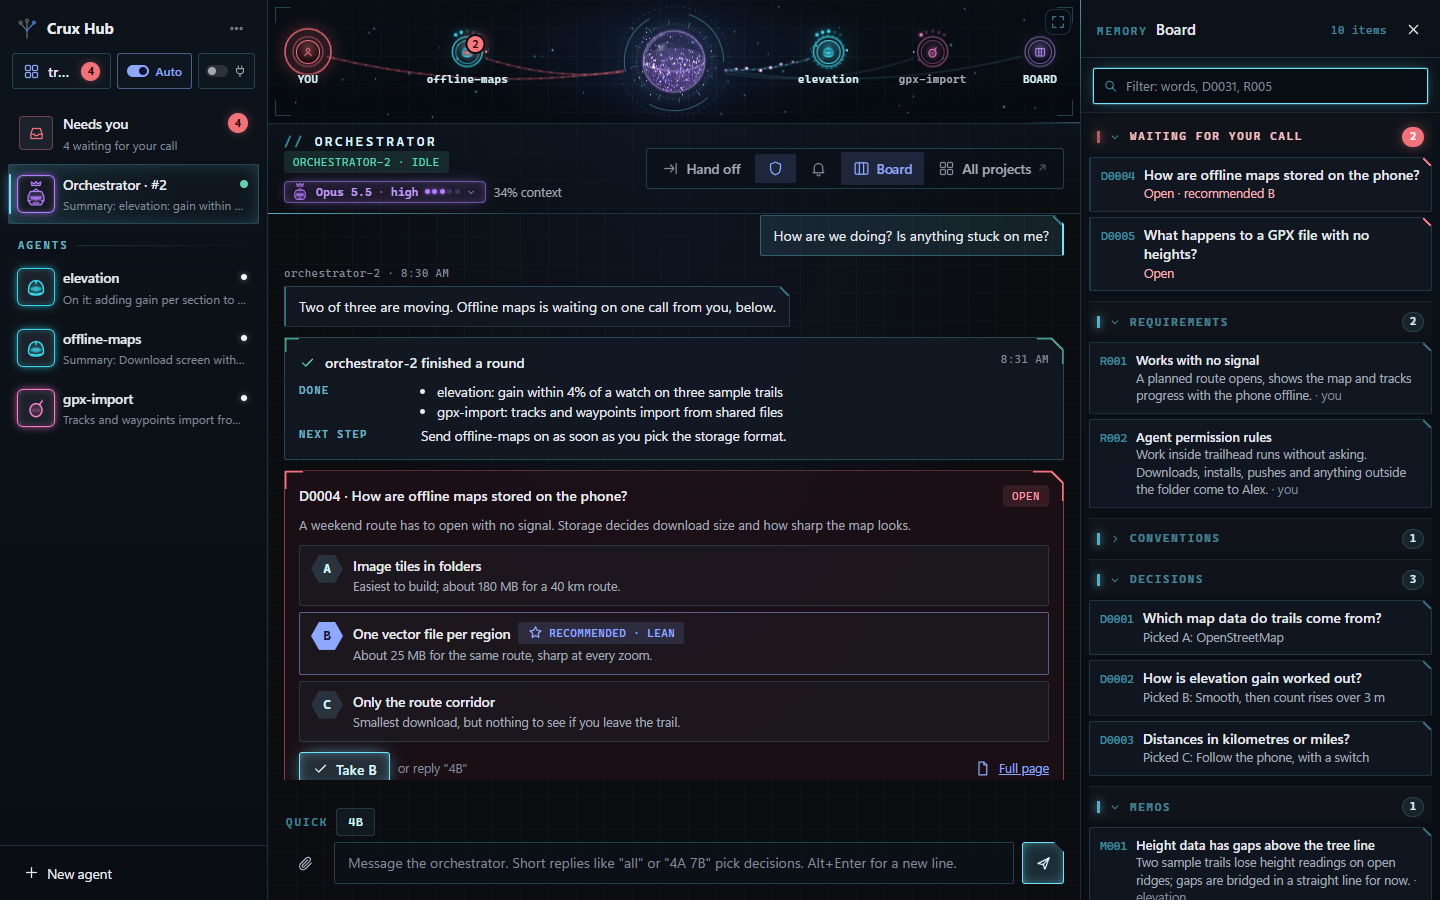
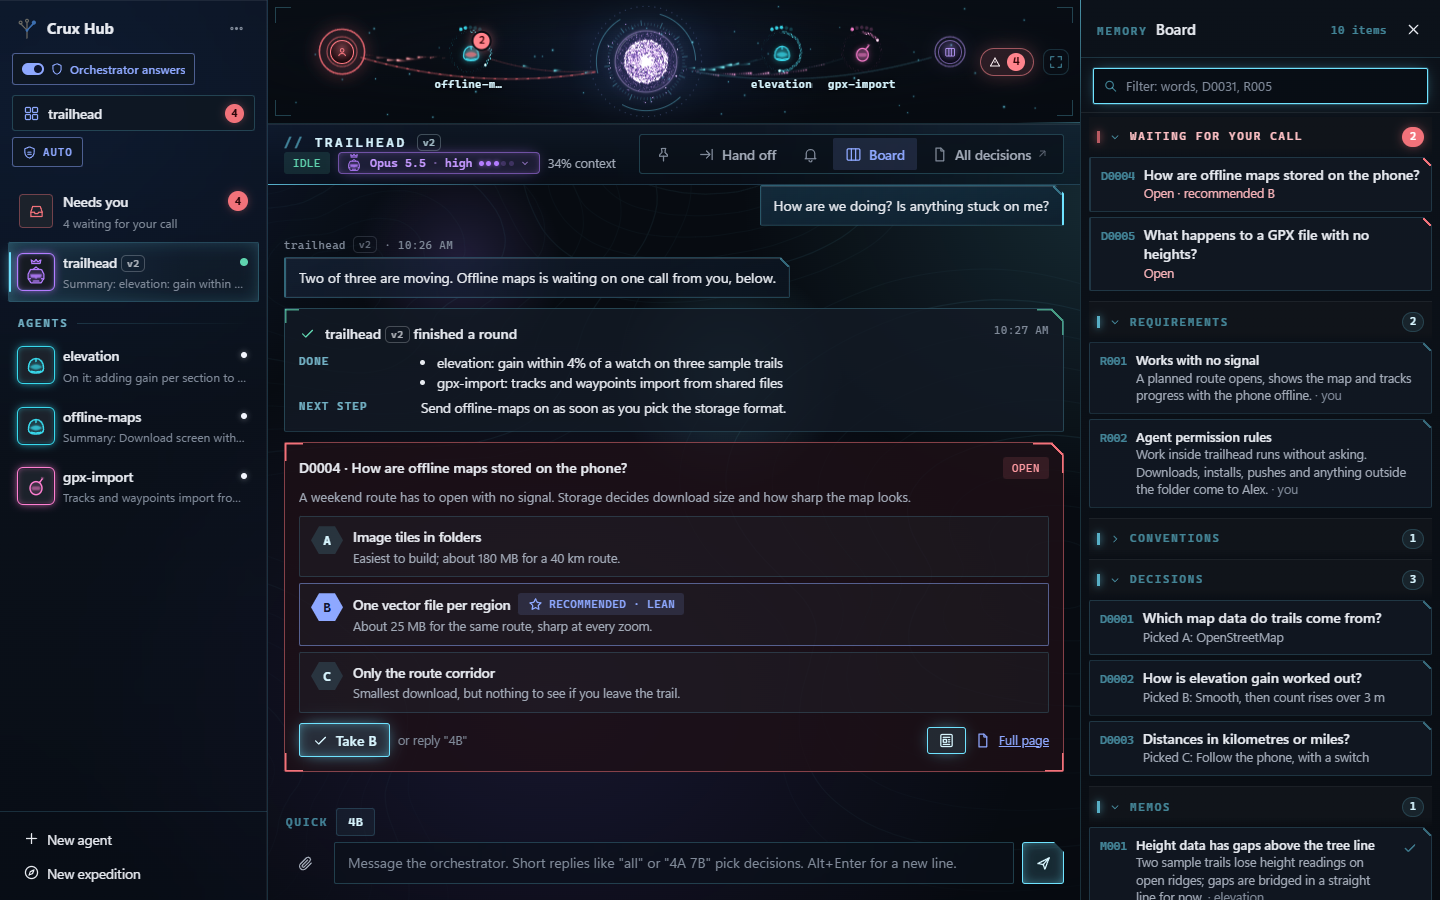
Public page: re-shoot the Hub pictures for hub 0.33 (swarm core, satellites, three-zone top bar), new share card, neutral crux-all path
Staging scripts: overlay shows two workers working, proxy asks for uncompressed state, expedition and phone-list shots fixed, crux-all.mjs added. Map copy and crop match the new look.

diff --git a/site/index.html b/site/index.html
@@ -482,11 +482,11 @@
       <div class="in">
         <div class="split even">
           <div class="prose">
-            <p>A strip along the top shows the orchestrator as a glass sphere and each worker as a station. Click it and it opens to fill the screen.</p>
+            <p>A strip along the top shows the orchestrator as a swarm of light and each worker as a small robot circling it. Click it and it opens to fill the screen.</p>
             <ul class="dots">
-              <li>The liquid level in the sphere is how much of its memory the orchestrator has used.</li>
-              <li>Streams of light run to the workers that are busy.</li>
-              <li>A station turns red when that agent waits on you.</li>
+              <li>The size of the lit core is how much of its memory the orchestrator has used, and it turns gold near a handoff.</li>
+              <li>Streams of light run to the workers that are busy, and each worker's ring shows its own memory.</li>
+              <li>A worker turns red when that agent waits on you. Point at one to see what it is doing.</li>
             </ul>
             <ul class="legend">
               <li class="red"><i></i><span><b>Red</b> is your call, and nothing else</span></li>
@@ -494,10 +494,10 @@
               <li class="cyan"><i></i><span><b>Cyan</b> is at work</span></li>
               <li class="green"><i></i><span><b>Green</b> is done</span></li>
             </ul>
-            <p class="note">The sphere at the top of this page is the same drawing code, running live.</p>
+            <p class="note">The sphere at the top of this page is a live drawing in the same style.</p>
           </div>
           <figure class="plate shot">
-            <a class="zoom crop" href="img/hub-map.png" style="--x:270;--y:60;--w:1170;--h:830;--px:540;--py:250;--pw:560;--ph:460"><img src="img/hub-map.png" width="1440" height="900" loading="lazy" alt="The live map opened to full size: the orchestrator as a glass sphere in the centre with worker stations around it"></a>
+            <a class="zoom crop" href="img/hub-map.png" style="--x:270;--y:60;--w:1170;--h:830;--px:400;--py:230;--pw:600;--ph:480"><img src="img/hub-map.png" width="1440" height="900" loading="lazy" alt="The live map opened to full size: the orchestrator as a dense swarm of light in the centre, with the workers as small robots circling it and one marked as waiting on you"></a>
             <figcaption><span>Fig. 12</span>The live map, opened</figcaption>
           </figure>
         </div>

diff --git a/site-tools/README.md b/site-tools/README.md
@@ -9,6 +9,7 @@ Helpers for building and checking the public page in `../site/`. Nothing here is
 | `shoot.mjs` | Takes a PNG of a page with headless Edge or Chrome. No dependencies. |
 | `shoot-site.mjs` | Shoots the whole page at 1440 and 390 wide into `shots/` (not committed). `node shoot-site.mjs share` rewrites `site/img/share.png`, the picture shown when the link is shared. |
 | `fetch-fonts.mjs` | Downloads Inter and JetBrains Mono (SIL Open Font Licence) from their GitHub repositories into `site/fonts/`. Already run; the files are committed. |
+| `stage/crux-all.mjs` | Builds the all-projects roll-up from two made-up projects with the real roll-up script and shoots `site/img/crux-all.png`, with a neutral folder path. |
 | `stage/` | Stages a demo Hub (a made-up hiking-trail planner, user "Alex") on a spare port with no agents, and takes the Hub screenshots in `site/img/`. See the notes at the top of `stage/stage.mjs` and `stage/shots.mjs`. The working and waiting states in those shots are staged by `stage/overlay-proxy.mjs`; no agent ran. |
 
 `site/js/core/` is a copy of the Hub's live-map drawing code (`hub/public/map-*.js`, `models.js`), unchanged, so the hero draws the same sphere as the Hub.
